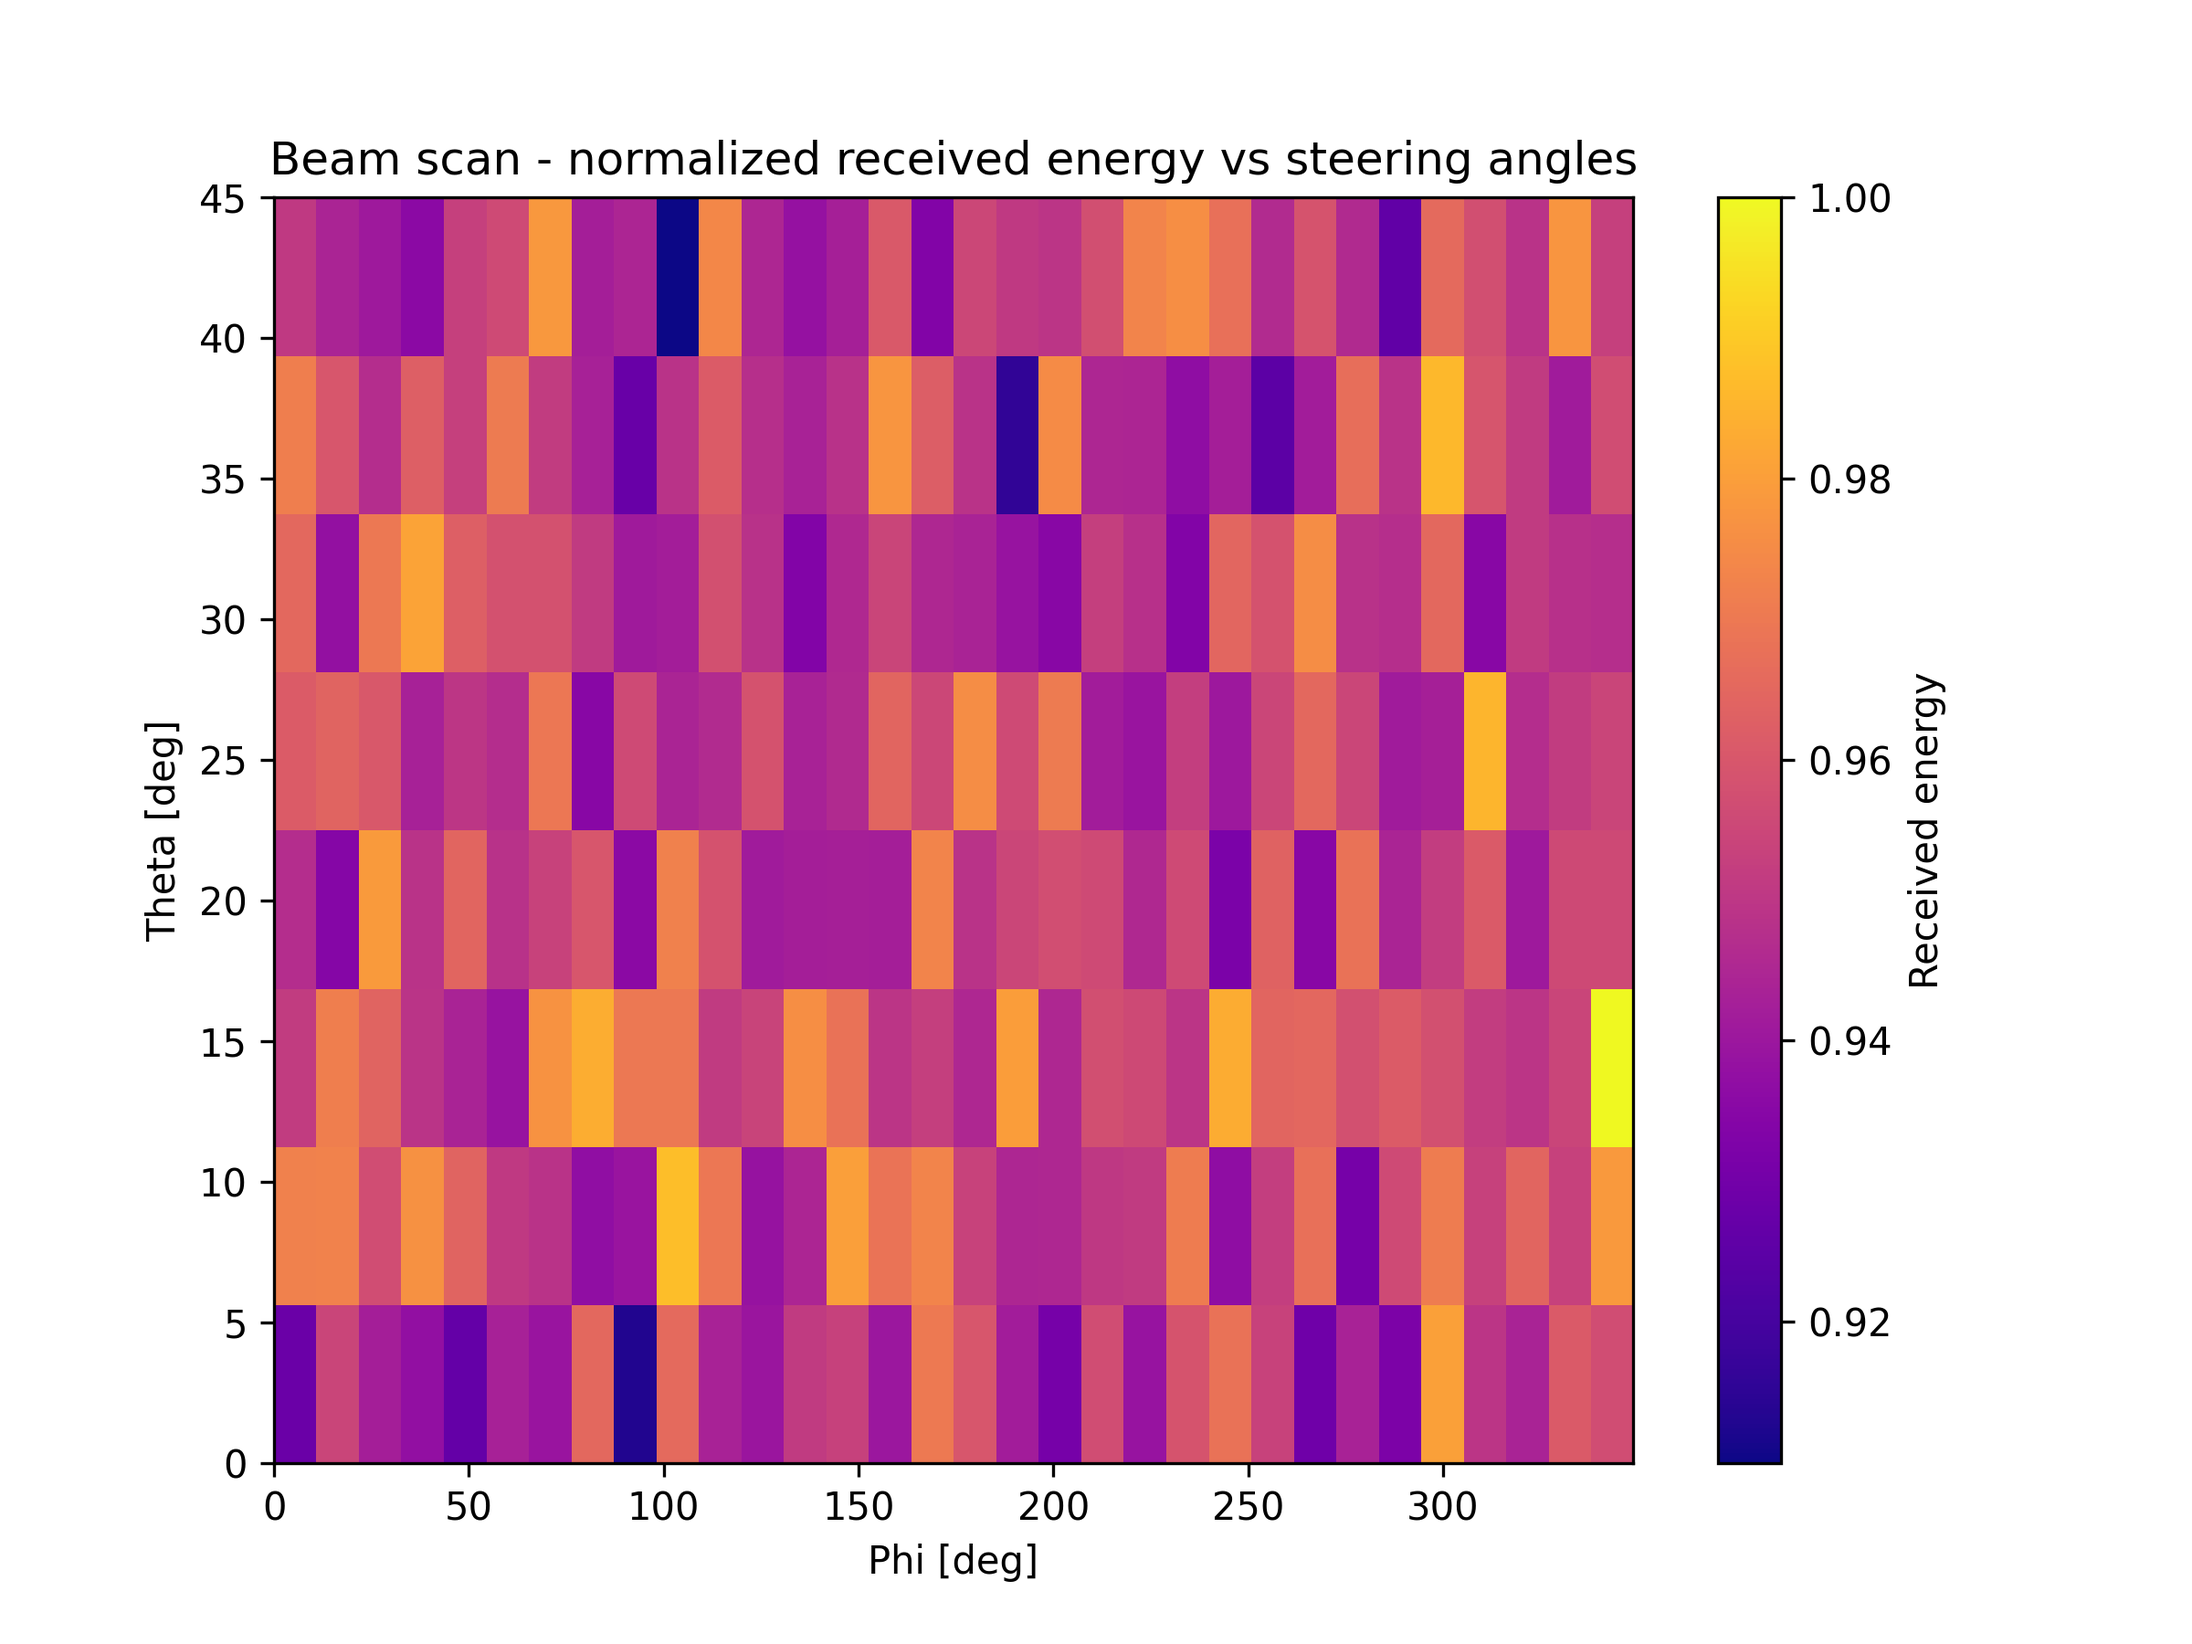
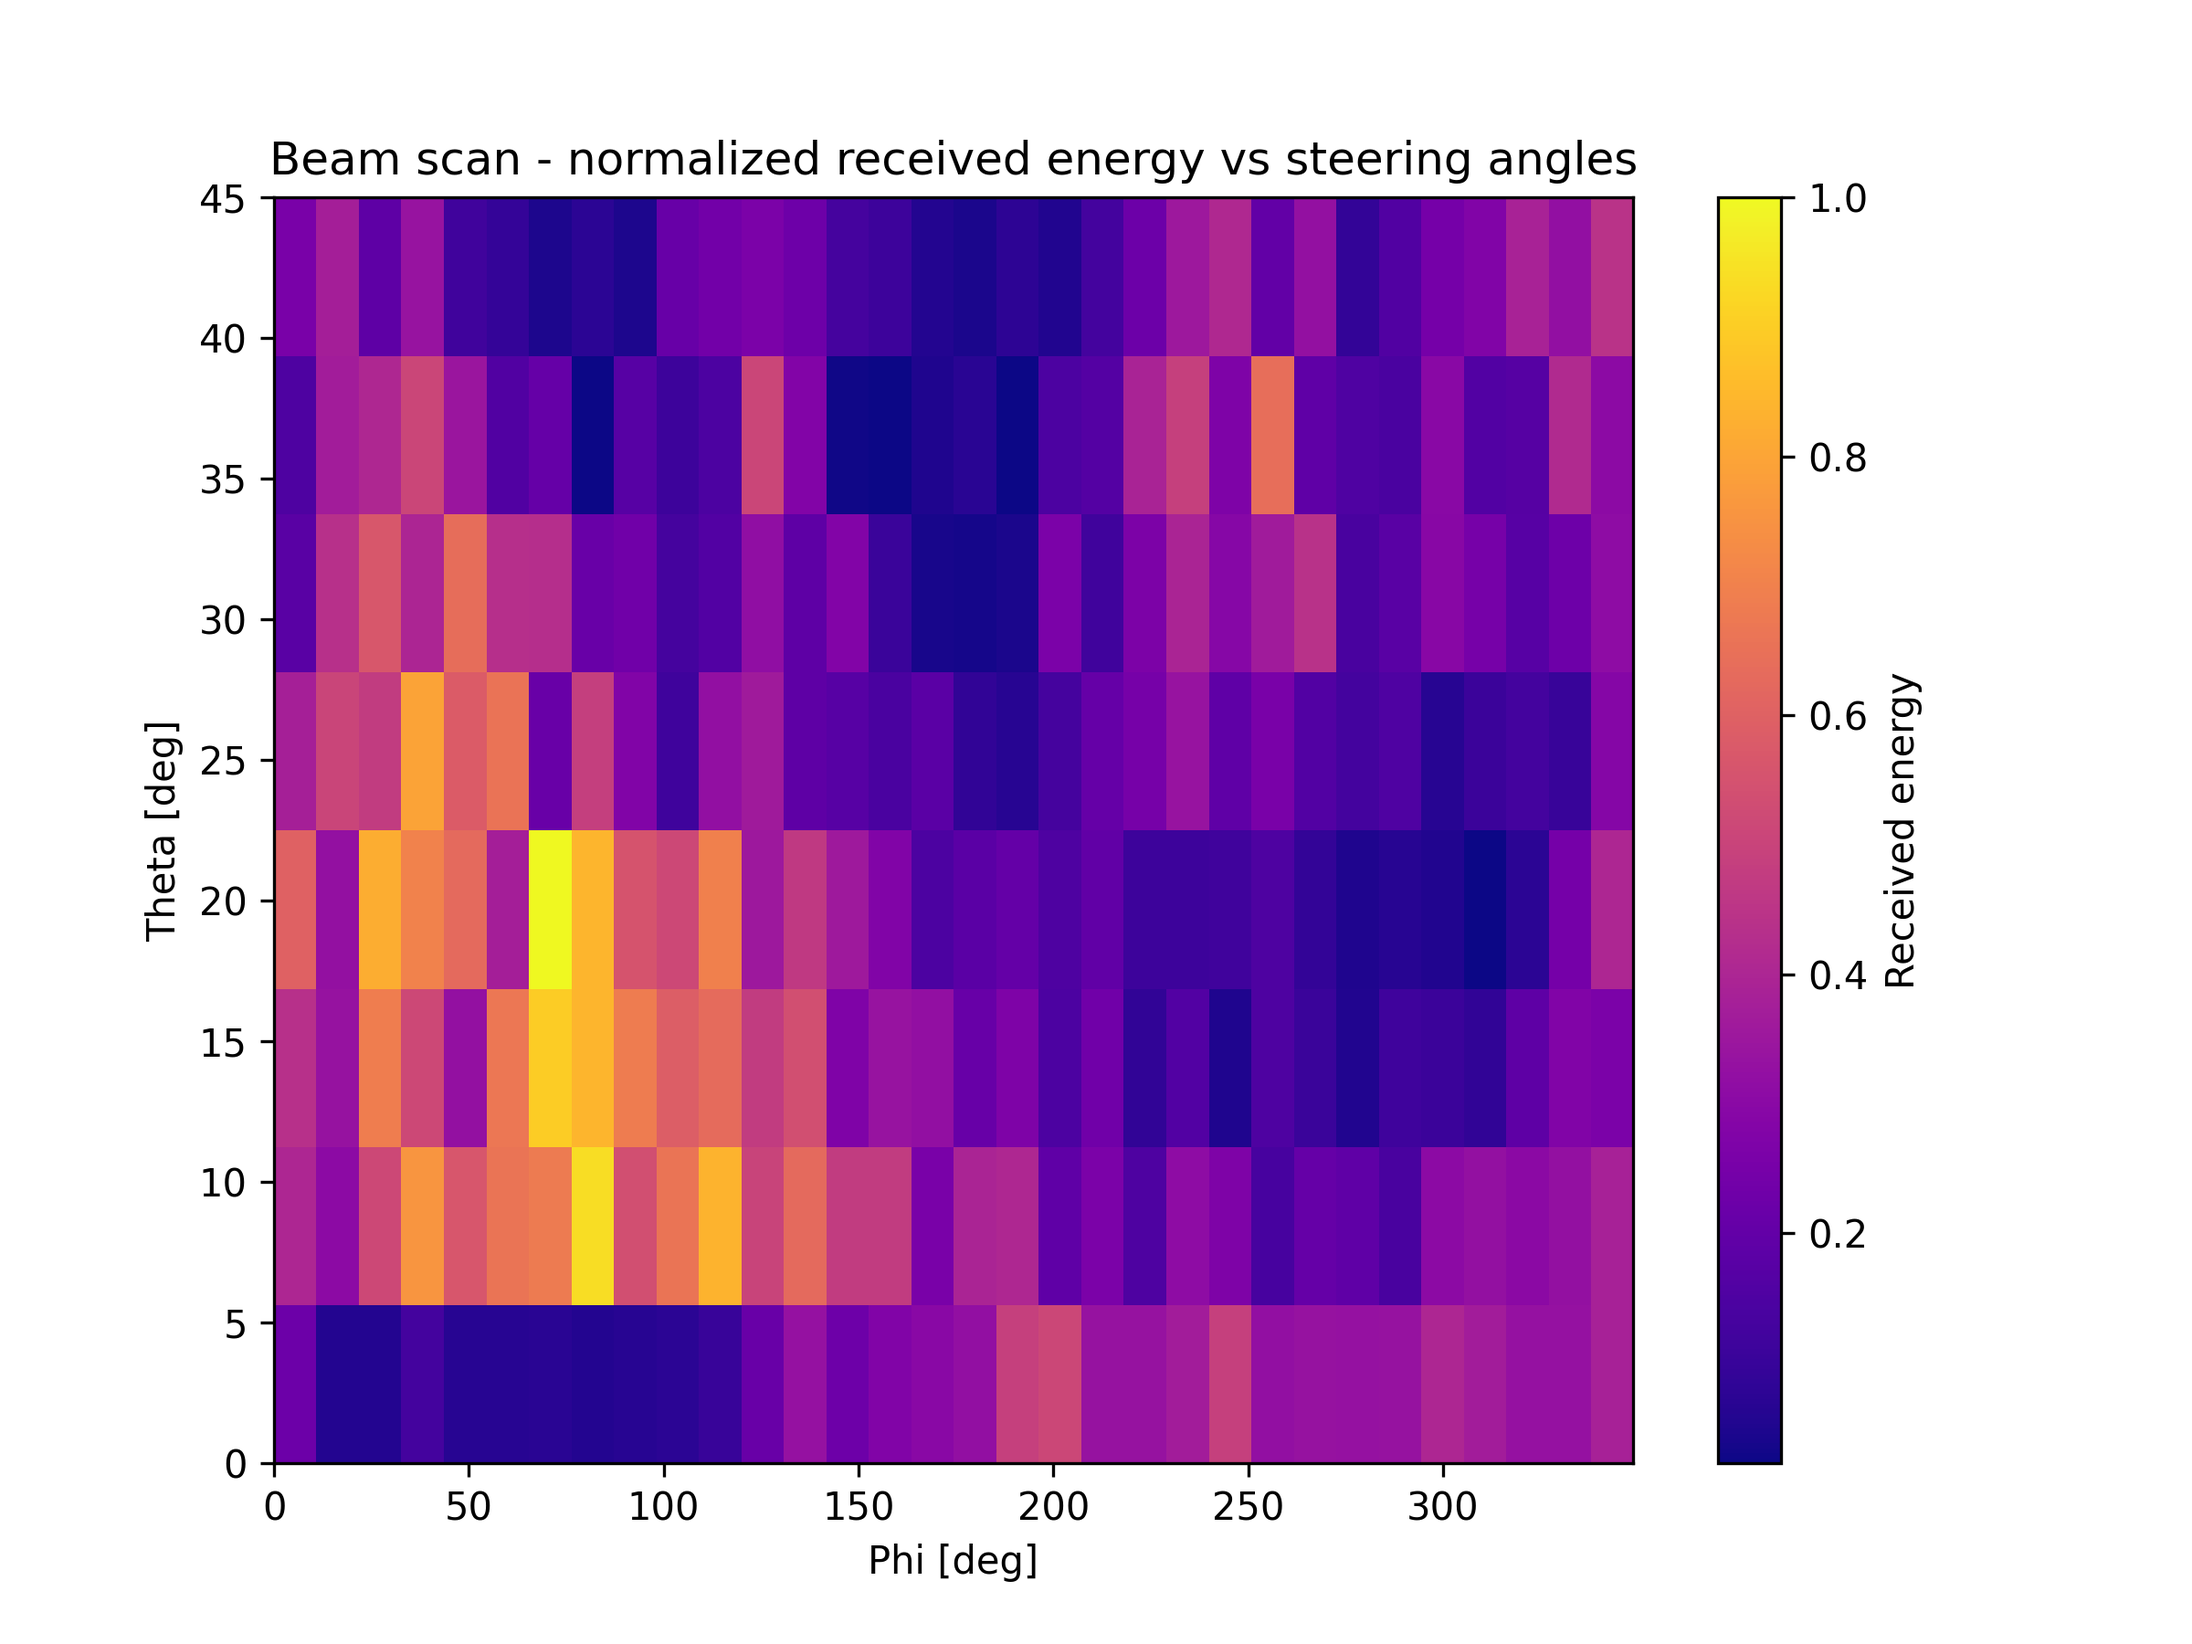
S44 added

diff --git a/GUI/READ_S2P.py b/GUI/READ_S2P.py
@@ -19,12 +19,12 @@ from pathlib import Path
 
 S2P_DIR = Path("S2P") #directory containing port data
 
+
 def read_s2p(filepath: Path):
     """
     Read S-parameter data from a .s2p file.
-    Retunrs freqs s11 and s41
+    Returns freqs, s11, s41, s44
     """
-
     data = []
     with open(filepath, "r") as f:
         for line in f:
@@ -35,12 +35,14 @@ def read_s2p(filepath: Path):
             # Columns: Freq, S11 Re/Im, S41 Re/Im, S14 Re/Im, S44 Re/Im
             s11 = complex(float(parts[1]), float(parts[2]))
             s41 = complex(float(parts[3]), float(parts[4]))
-            data.append((freq, s11, s41))
+            s44 = complex(float(parts[7]), float(parts[8]))
+            data.append((freq, s11, s41, s44))
     data = np.array(data, dtype=object)
     freqs = np.array([d[0] for d in data])
     s11 = np.array([d[1] for d in data])
     s41 = np.array([d[2] for d in data])
-    return freqs, s11, s41
+    s44 = np.array([d[3] for d in data])
+    return freqs, s11, s41, s44
 
 
 def get_phase_at_freq() -> np.ndarray:
@@ -51,7 +53,7 @@ def get_phase_at_freq() -> np.ndarray:
     phases = []
     for i in range(1, 17):
         file = S2P_DIR / f"Port{i}.s2p"
-        freqs, _, s41 = read_s2p(file)
+        freqs, _, s41, _ = read_s2p(file)
         # Find the closest frequency index
         idx = np.argmin(np.abs(freqs - FREQ))
         phase_deg = np.angle(s41[idx], deg=True)
@@ -66,7 +68,7 @@ def plot_S41_mag():
     plt.figure(figsize=(10, 6))
     for i in range(1, 17):
         file = S2P_DIR / f"Port{i}.s2p"
-        freqs, _, s41 = read_s2p(file)
+        freqs, _, s41, _ = read_s2p(file)
         mag_db = 20 * np.log10(np.abs(s41))
         plt.plot(freqs / 1e9, mag_db, label=f"Port {i}")
     plt.xlabel("Frequency (GHz)")
@@ -83,7 +85,7 @@ def plot_S41_phase(unwrap=True):
     plt.figure(figsize=(10, 6))
     for i in range(1, 17):
         file = S2P_DIR / f"Port{i}.s2p"
-        freqs, _, s41 = read_s2p(file)
+        freqs, _, s41, _ = read_s2p(file)
         phase_deg = np.angle(s41, deg=True)
         if unwrap:
             phase_deg = np.unwrap(np.angle(s41)) * 180 / np.pi
@@ -102,7 +104,7 @@ def plot_S11_mag():
     plt.figure(figsize=(10, 6))
     for i in range(1, 17):
         file = S2P_DIR / f"Port{i}.s2p"
-        freqs, s11, _ = read_s2p(file)
+        freqs, s11, _, _ = read_s2p(file)
         mag_db = 20 * np.log10(np.abs(s11))
         plt.plot(freqs / 1e9, mag_db, label=f"Port {i}")
     plt.xlabel("Frequency (GHz)")
@@ -113,14 +115,31 @@ def plot_S11_mag():
     plt.tight_layout()
     plt.show()
 
-    
+
+def plot_S44_mag():
+    '''Plot |S44| (in dB) for each port on the same graph'''
+    plt.figure(figsize=(10, 6))
+    for i in range(1, 17):
+        file = S2P_DIR / f"Port{i}.s2p"
+        freqs, _, _, s44 = read_s2p(file)
+        mag_db = 20 * np.log10(np.abs(s44))
+        plt.plot(freqs / 1e9, mag_db, label=f"Port {i}")
+    plt.xlabel("Frequency (GHz)")
+    plt.ylabel("|S44| (dB)")
+    plt.title("S44 Magnitude (dB) for Each Port")
+    plt.grid(True)
+    plt.legend(ncol=4, fontsize=8)
+    plt.tight_layout()
+    plt.show()
+
+
 def main():
-    #For testing purposes
+    # For testing purposes
     plot_S11_mag()
     plot_S41_mag()
+    plot_S44_mag()
     plot_S41_phase()
 
 
-#if running this program directly plot S41 -> for each port
-if __name__=='__main__':
+if __name__ == '__main__':
     main()

diff --git a/GUI/PLUTO.py b/GUI/PLUTO.py
@@ -1,6 +1,6 @@
 import time, adi 
 import numpy as np
-from config import FREQ , BASE_BAND, SAMP_RATE,BUFFER_SIZE,NUM_AVG 
+from config import FREQ , BASE_BAND, SAMP_RATE,BUFFER_SIZE,NUM_AVG,RX_GAIN,TX_GAIN 
 
 # --- connect to plutosdr ---
 try:
@@ -10,14 +10,14 @@ try:
 # --- tx setup ---
     sdr.tx_rf_bandwidth = int(SAMP_RATE)     # match baseband bw
     sdr.tx_lo = int(FREQ)                    # rf carrier in hz
-    sdr.tx_hardwaregain_chan0 = -40          # adjust amplitude to avoid clipping
+    sdr.tx_hardwaregain_chan0 = TX_GAIN          #dBm 
     sdr.tx_cyclic_buffer = True
 
 # --- rx setup ---
     sdr.rx_lo = int(FREQ)                     # rf carrier in hz
     sdr.rx_rf_bandwidth = int(SAMP_RATE)
     sdr.gain_control_mode_chan0 = "manual"
-    sdr.rx_hardwaregain_chan0 = 0             # adjust as needed
+    sdr.rx_hardwaregain_chan0 = RX_GAIN             # adjust as needed
     sdr.rx_buffer_size =  BUFFER_SIZE
 
 # --- tone generator ---

diff --git a/GUI/main.py b/GUI/main.py
@@ -312,7 +312,7 @@ def oam_page():
             '''
             #default oam_1
             phases = np.array([
-                0, 90, 45, 0, 135, 0, 0, 0, 180, 0, 0, 315, 0, 225, 270, 0
+                140.2, 111.8, 68.2, 39.8, 164.5, 140.2, 39.8, 15.5, 195.5, 219.8, 320.2, 344.5, 219.8, 248.2, 291.8,320.2 
             ]) 
             if mode == '-3':
                 phases *= -3

diff --git a/GUI/config.py b/GUI/config.py
@@ -22,7 +22,8 @@ PHI_RANGE = np.linspace(0, 360, num_phi, endpoint=False)
 FREQ = int(2.1e9)
 BASE_BAND = 100e3
 SAMP_RATE = 5e6  # Hz
-
+TX_GAIN = -5 #dBm
+RX_GAIN =10 #adjust as needed
 #4 ms to fill buffer
 BUFFER_SIZE = 2048 
 NUM_AVG = 4
